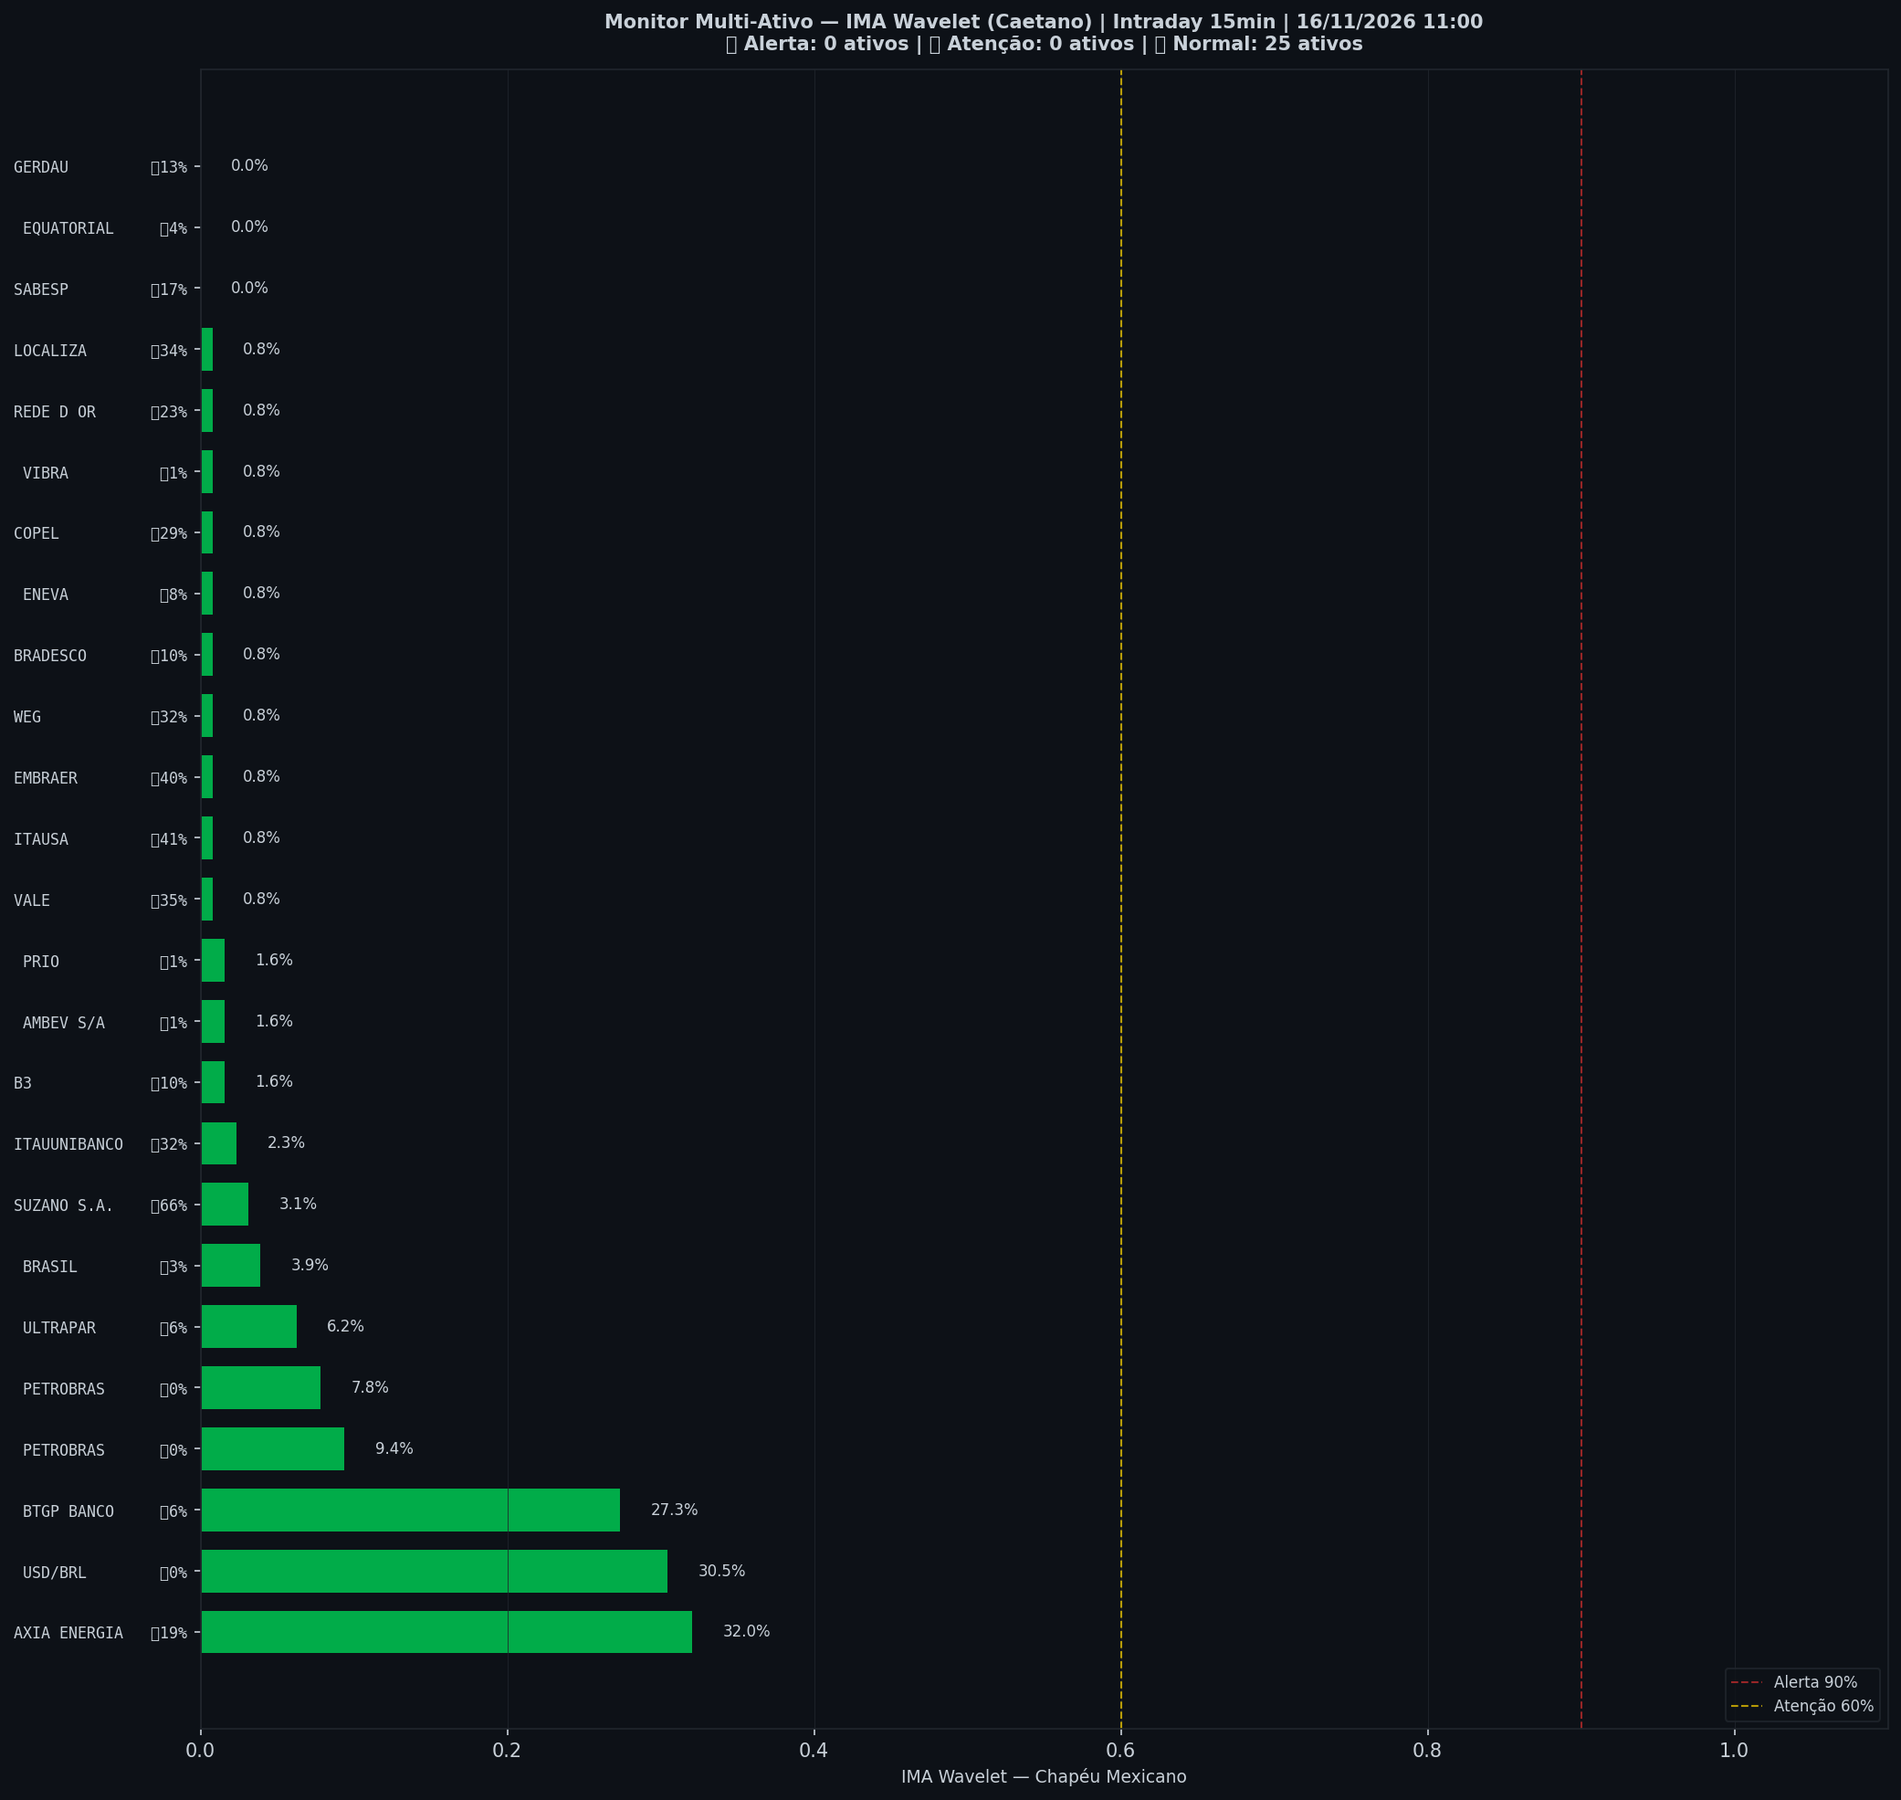
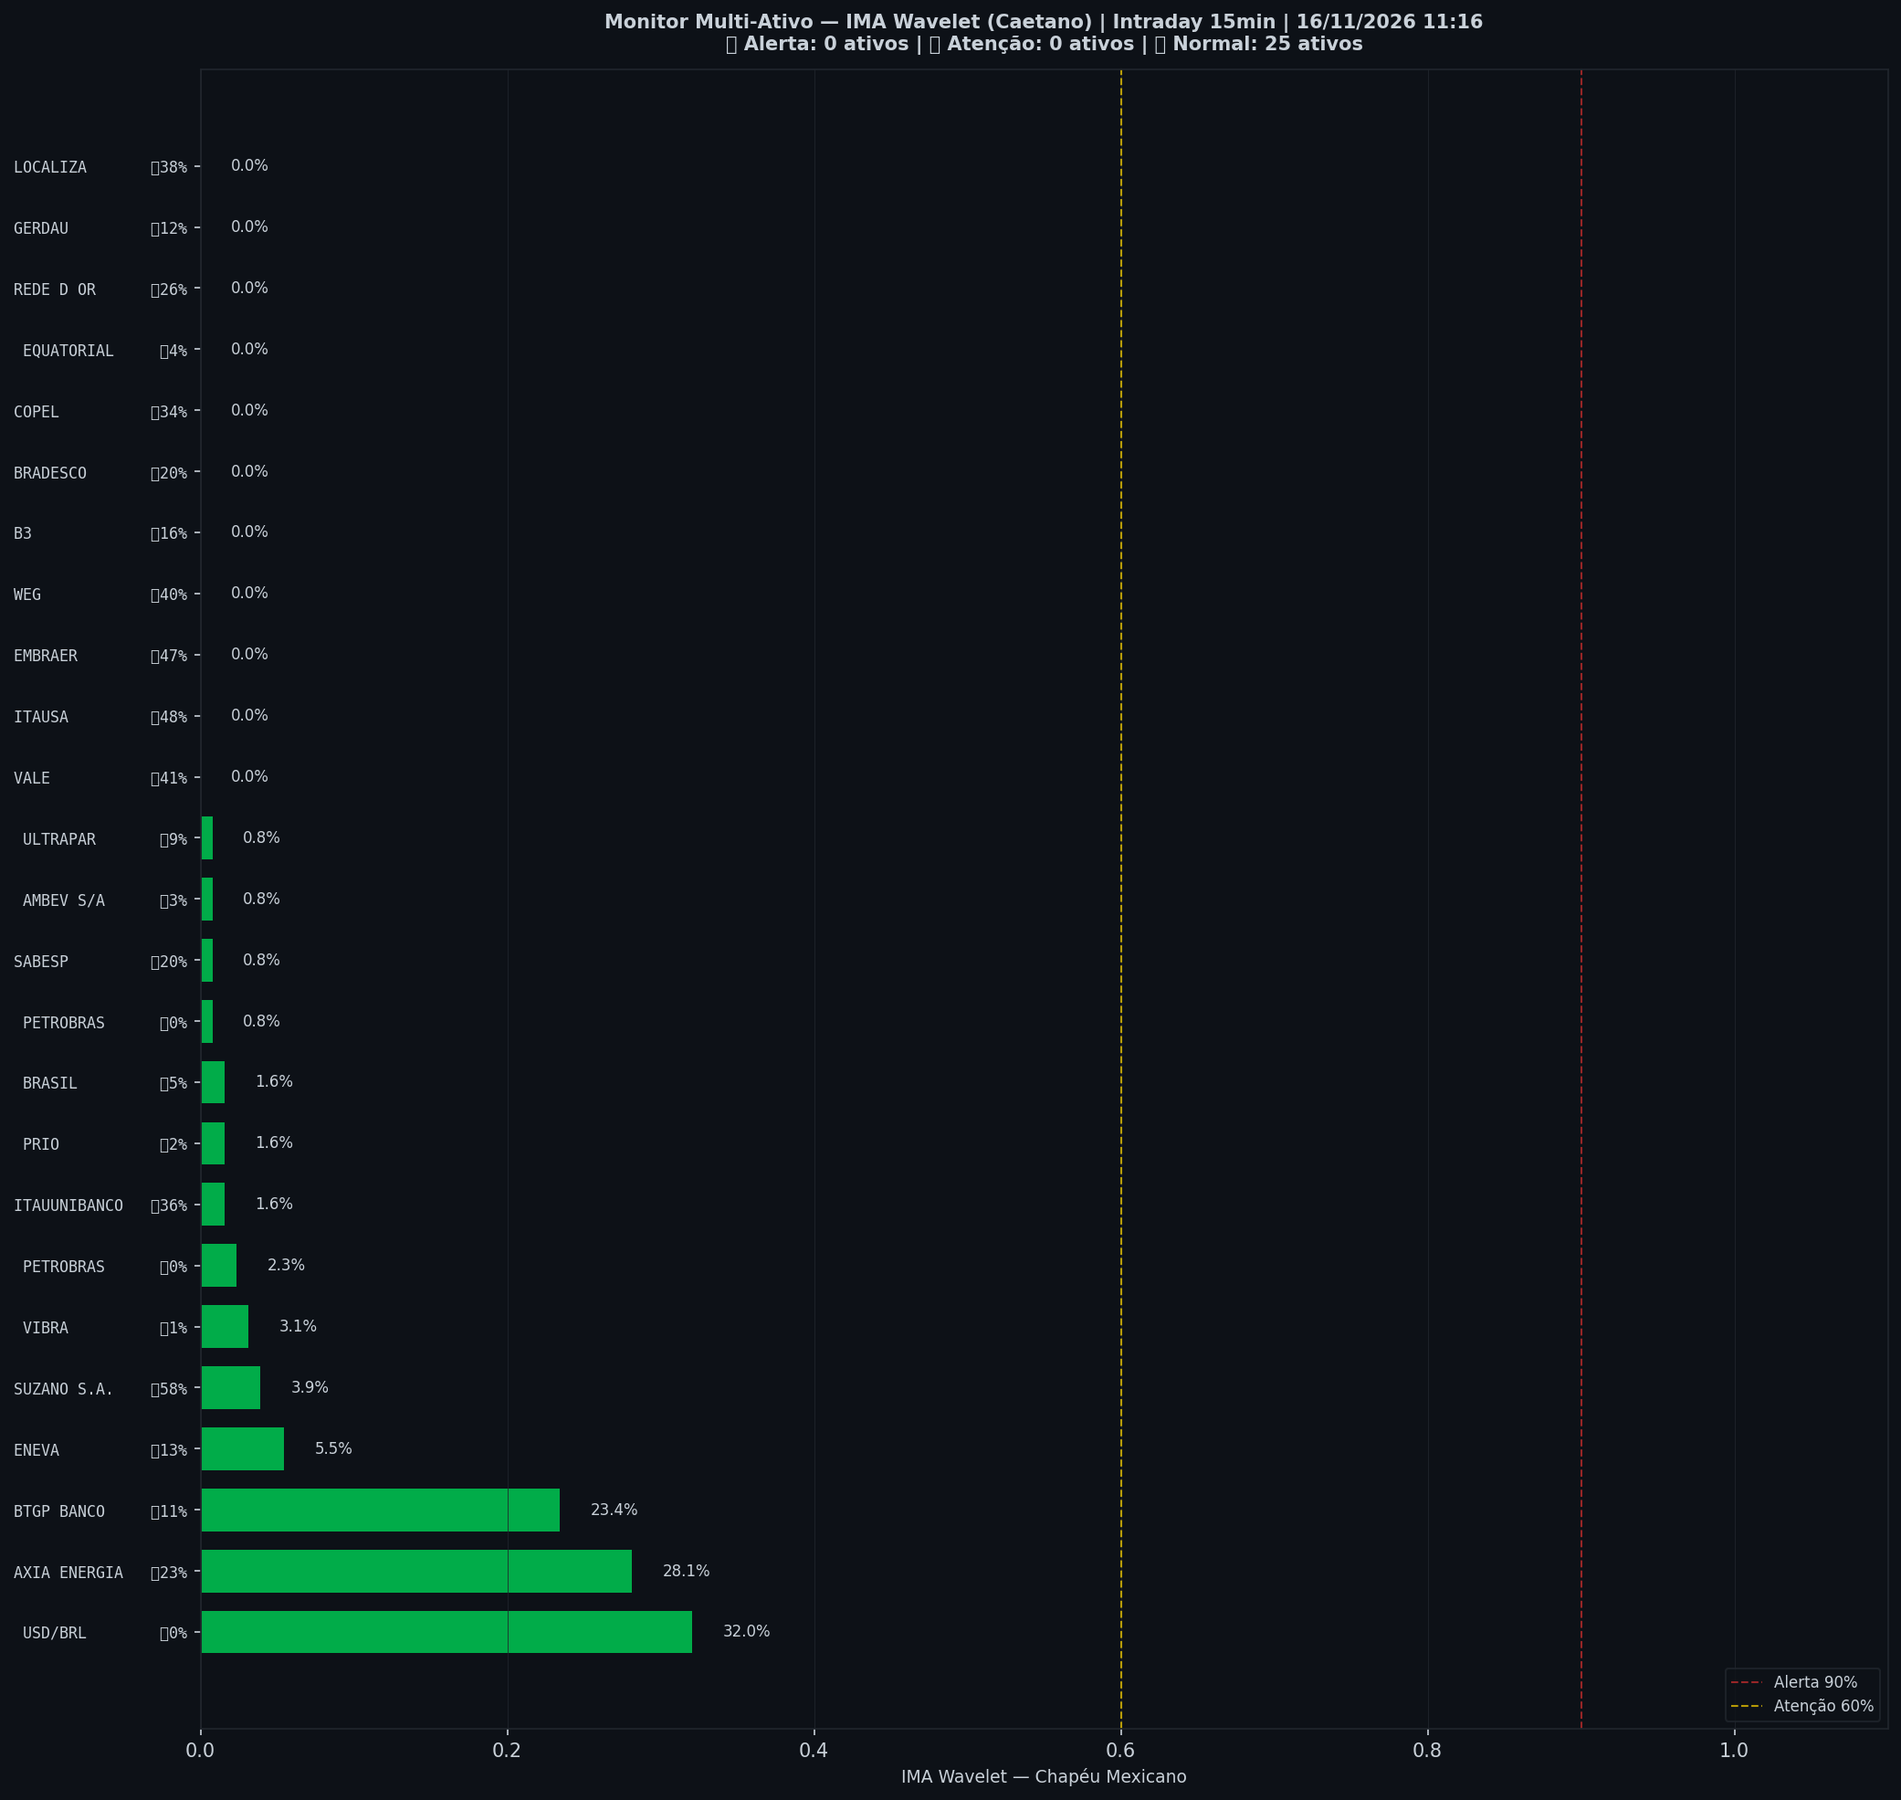
🤖 Auto: Sinal 16/11/2026 11:16

diff --git a/content/intraday/2026-11-16.md b/content/intraday/2026-11-16.md
@@ -1,11 +1,11 @@
 ---
-title: "🟢 Intraday 16/11/2026 10:45 BRT — VERDE"
+title: "🟢 Intraday 16/11/2026 11:00 BRT — VERDE"
 date: 2026-11-16
 tags: [intraday]
 ---
 
-> [!success] Onde o mercado está agora (16/11 10:45, candles de 15 min): **🟢 Calmo**
-> `Pânico ◀───────●─────────────▶ Euforia`
+> [!success] Onde o mercado está agora (16/11 11:00, candles de 15 min): **🟢 Calmo**
+> `Pânico ◀──────●──────────────▶ Euforia`
 >
 > O Ibovespa está dentro da sua faixa normal, sem excesso para cima nem para baixo.
 > No gráfico diário: 🌱 Fundo se desfazendo.
@@ -20,7 +20,7 @@ tags: [intraday]
 > | 📍 **Sinais** | hoje: nenhum sinal | [abrir](sinais-topo-fundo/) |
 > | 🧪 **Placar ao vivo** | 1 operação(ões), 0 com lucro, soma -0,8% | [abrir](operacoes/) |
 
-> [!success] IMA Intraday · 15 min (16/11 10:45): 🟢 **VERDE** — Risco 1% · ▼ -2 p.p. vs leitura anterior
+> [!success] IMA Intraday · 15 min (16/11 11:00): 🟢 **VERDE** — Risco 0% · ▼ -1 p.p. vs leitura anterior
 > `░░░░░░░░░░░░░░░░░░░░`
 > Preço na faixa normal em torno da tendência.
 
@@ -32,13 +32,13 @@ tags: [intraday]
 >
 > *Leitura educacional baseada em 26 anos de dados, não recomendação. [Como usar](../metodologia/crise#3-como-usar-na-prática).*
 
-| Indicador — IMA Intraday · 15 min (16/11 10:45) | Valor |
+| Indicador — IMA Intraday · 15 min (16/11 11:00) | Valor |
 |---|---|
-| 🔴 ζ Topo — preço esticado acima da tendência | **1%** |
-| 🔵 ζ Fundo — preço esticado abaixo da tendência | 31% |
+| 🔴 ζ Topo — preço esticado acima da tendência | **0%** |
+| 🔵 ζ Fundo — preço esticado abaixo da tendência | 36% |
 | 🫧 LPPL bolha — alta super-exponencial (risco de crash) | 0% |
 | 🫧 LPPL antibolha — queda super-exponencial (risco de repique) | 0% |
-| 📊 Ibovespa | 170.758 pts |
+| 📊 Ibovespa | 170.737 pts |
 
 ![Gráfico do sinal](../graficos/sinal_intraday.png)
 
@@ -46,6 +46,7 @@ tags: [intraday]
 
 | Data | Zona | Evento | Risco | ζ Topo | ζ Fundo | LPPL |
 |---|---|---|---|---|---|---|
+| 2026-11-16 11:00 | 🟢 VERDE |  | **0%** | 0% | 36% | 0% |
 | 2026-11-16 10:45 | 🟢 VERDE |  | **1%** | 1% | 31% | 0% |
 | 2026-11-16 10:30 | 🟢 VERDE |  | **2%** | 2% | 21% | 0% |
 | 2026-11-16 10:15 | 🟢 VERDE |  | **2%** | 2% | 12% | 0% |
@@ -75,50 +76,46 @@ tags: [intraday]
 | 2026-11-13 12:30 | 🟢 VERDE |  | **2%** | 2% | 2% | 0% |
 | 2026-11-13 12:15 | 🟢 VERDE |  | **2%** | 2% | 5% | 0% |
 | 2026-11-13 12:00 | 🟢 VERDE |  | **1%** | 1% | 11% | 0% |
-| 2026-11-13 11:45 | 🟢 VERDE |  | **0%** | 0% | 15% | 0% |
 
 <small>Destaques: 🟡 ≥ 60% · 🔴 ≥ 90% (Risco e ζ Topo) · 🔵 ≥ 60% · 🔪 ≥ 90% (ζ Fundo) · 🫧 ≥ 30% · 🫧🔴 ≥ 50% (LPPL)</small>
 
 ## Monitor Multi-Ativo
 
-**0% dos ativos em tensão** (0🔴 0🟡) · **1 com ζ Fundo alto** — quanto mais ativos disparam juntos, mais confiável o sinal.
-
-> [!warning] Em destaque no multi-ativo
-> 🔵 **SUZANO S.A.** ζ Fundo 66%
+**0% dos ativos em tensão** (0🔴 0🟡) · **0 com ζ Fundo alto** — quanto mais ativos disparam juntos, mais confiável o sinal.
 
 | Zona | Ativo | Setor | ζ Topo | ζ Fundo |
 |---|---|---|---|---|
-| 🟢 | **SUZANO S.A.** | Papel/Celulose | 3.1% | 🔵 **65.6%** |
-| 🟢 | **ITAUSA** | Financeiro | 0.8% | 41.4% |
-| 🟢 | **EMBRAER** | Outros | 0.8% | 39.8% |
-| 🟢 | **VALE** | Mineração | 0.8% | 35.2% |
-| 🟢 | **LOCALIZA** | Aluguel | 0.8% | 34.4% |
-| 🟢 | **ITAUUNIBANCO** | Financeiro | 2.3% | 32.0% |
-| 🟢 | **AXIA ENERGIA** | Energia | 32.0% | 18.8% |
-| 🟢 | **WEG** | Industrial | 0.8% | 32.0% |
-| 🟢 | **USD/BRL** | Câmbio | 30.5% | 0.0% |
-| 🟢 | **COPEL** | Energia | 0.8% | 28.9% |
-| 🟢 | **BTGP BANCO** | Financeiro | 27.3% | 6.2% |
-| 🟢 | **REDE D OR** | Saúde | 0.8% | 22.7% |
-| 🟢 | **SABESP** | Saneamento | 0.0% | 17.2% |
-| 🟢 | **GERDAU** | Siderurgia | 0.0% | 13.3% |
-| 🟢 | **B3** | Financeiro | 1.6% | 10.2% |
-| 🟢 | **BRADESCO** | Financeiro | 0.8% | 10.2% |
-| 🟢 | **PETROBRAS** | Petróleo | 9.4% | 0.0% |
-| 🟢 | **PETROBRAS** | Petróleo | 7.8% | 0.0% |
-| 🟢 | **ENEVA** | Energia | 0.8% | 7.8% |
-| 🟢 | **ULTRAPAR** | Outros | 6.2% | 6.2% |
-| 🟢 | **BRASIL** | Financeiro | 3.9% | 3.1% |
+| 🟢 | **SUZANO S.A.** | Papel/Celulose | 3.9% | 57.8% |
+| 🟢 | **ITAUSA** | Financeiro | 0.0% | 47.7% |
+| 🟢 | **EMBRAER** | Outros | 0.0% | 46.9% |
+| 🟢 | **VALE** | Mineração | 0.0% | 41.4% |
+| 🟢 | **WEG** | Industrial | 0.0% | 39.8% |
+| 🟢 | **LOCALIZA** | Aluguel | 0.0% | 37.5% |
+| 🟢 | **ITAUUNIBANCO** | Financeiro | 1.6% | 35.9% |
+| 🟢 | **COPEL** | Energia | 0.0% | 34.4% |
+| 🟢 | **USD/BRL** | Câmbio | 32.0% | 0.0% |
+| 🟢 | **AXIA ENERGIA** | Energia | 28.1% | 23.4% |
+| 🟢 | **REDE D OR** | Saúde | 0.0% | 25.8% |
+| 🟢 | **BTGP BANCO** | Financeiro | 23.4% | 10.9% |
+| 🟢 | **BRADESCO** | Financeiro | 0.0% | 20.3% |
+| 🟢 | **SABESP** | Saneamento | 0.8% | 19.5% |
+| 🟢 | **B3** | Financeiro | 0.0% | 15.6% |
+| 🟢 | **ENEVA** | Energia | 5.5% | 13.3% |
+| 🟢 | **GERDAU** | Siderurgia | 0.0% | 12.5% |
+| 🟢 | **ULTRAPAR** | Outros | 0.8% | 9.4% |
+| 🟢 | **BRASIL** | Financeiro | 1.6% | 4.7% |
 | 🟢 | **EQUATORIAL** | Energia | 0.0% | 3.9% |
-| 🟢 | **AMBEV S/A** | Consumo | 1.6% | 0.8% |
-| 🟢 | **PRIO** | Petróleo | 1.6% | 0.8% |
-| 🟢 | **VIBRA** | Energia | 0.8% | 0.8% |
+| 🟢 | **AMBEV S/A** | Consumo | 0.8% | 3.1% |
+| 🟢 | **VIBRA** | Energia | 3.1% | 0.8% |
+| 🟢 | **PETROBRAS** | Petróleo | 2.3% | 0.0% |
+| 🟢 | **PRIO** | Petróleo | 1.6% | 2.3% |
+| 🟢 | **PETROBRAS** | Petróleo | 0.8% | 0.0% |
 
 <small>Destaques: 🟡 ≥ 60% · 🔴 ≥ 90% (Risco e ζ Topo) · 🔵 ≥ 60% · 🔪 ≥ 90% (ζ Fundo) · 🫧 ≥ 30% · 🫧🔴 ≥ 50% (LPPL)</small>
 
 ![Monitor multi-ativo](../graficos/multi_intraday.png)
 
-*Página atualizada em 16/11/2026 11:00 BRT (leitura da barra de 2026-11-16 10:45 BRT).*
+*Página atualizada em 16/11/2026 11:16 BRT (leitura da barra de 2026-11-16 11:00 BRT).*
 
 > [!warning] O que este indicador não faz
 > Medido em 5 anos de Ibovespa, o ζ **não antecipa** topos nem fundos: a capacidade de separar o que sobe do que cai ficou em 0,49–0,52, e 0,50 é moeda jogada ao ar. Ele descreve o estado de agora; não é aviso do que vem. As zonas verde/amarelo/vermelho continuam na página como descrição desse estado — **não as use como sinal de entrada ou saída**.

diff --git a/content/index.md b/content/index.md
@@ -6,10 +6,10 @@ tags: [home]
 
 **As ondas do mercado, explicadas.** Leitura do Ibovespa com estatística de 26 anos, baseada no trabalho de pesquisadores e traders reconhecidos e adaptada por Jarbas Daniel da Costa.
 
-*Última atualização: 16/11/2026 11:00 BRT · Intraday 15min*
+*Última atualização: 16/11/2026 11:16 BRT · Intraday 15min*
 
-> [!success] Onde o mercado está agora (16/11 10:45, candles de 15 min): **🟢 Calmo**
-> `Pânico ◀───────●─────────────▶ Euforia`
+> [!success] Onde o mercado está agora (16/11 11:00, candles de 15 min): **🟢 Calmo**
+> `Pânico ◀──────●──────────────▶ Euforia`
 >
 > O Ibovespa está dentro da sua faixa normal, sem excesso para cima nem para baixo.
 > No gráfico diário: 🌱 Fundo se desfazendo.
@@ -20,7 +20,7 @@ tags: [home]
 
 | Módulo | Agora | |
 |---|---|---|
-| 🌊 **Sinal IMA** | 🟢 VERDE · 🟢 calmo · ζ Topo 1% | [relatório](intraday/2026-11-16) |
+| 🌊 **Sinal IMA** | 🟢 VERDE · 🟢 calmo · ζ Topo 0% | [relatório](intraday/2026-11-16) |
 | 📈 **Tendência MME9** | Diário 📌 compra acima de 172.715<br>Semanal — fora | [abrir](operacoes/tendencia) |
 | 🎯 **Entradas do método** | ⏳ aguardando: Diário · Nadaraya, Diário · Semáforo N3 após ζ Fundo | [abrir](operacoes/entradas) |
 | 📍 **Sinais** | hoje: nenhum sinal | [abrir](sinais-topo-fundo/) |
@@ -49,18 +49,18 @@ tags: [home]
 > *Leitura educacional baseada em 26 anos de dados, não recomendação. [Como usar](metodologia/crise#3-como-usar-na-prática).*
 
 > [!info]- 🌊 Detalhes do Sinal IMA (indicadores e últimos 7 pregões)
-> > [!success] IMA Intraday · 15 min (16/11 10:45): 🟢 **VERDE** — Risco 1% · ▼ -2 p.p. vs leitura anterior
+> > [!success] IMA Intraday · 15 min (16/11 11:00): 🟢 **VERDE** — Risco 0% · ▼ -1 p.p. vs leitura anterior
 > > `░░░░░░░░░░░░░░░░░░░░`
 > > Preço na faixa normal em torno da tendência.
 >
 >
-> | Indicador — IMA Intraday · 15 min (16/11 10:45) | Valor |
+> | Indicador — IMA Intraday · 15 min (16/11 11:00) | Valor |
 > |---|---|
-> | 🔴 ζ Topo — preço esticado acima da tendência | **1%** |
-> | 🔵 ζ Fundo — preço esticado abaixo da tendência | 31% |
+> | 🔴 ζ Topo — preço esticado acima da tendência | **0%** |
+> | 🔵 ζ Fundo — preço esticado abaixo da tendência | 36% |
 > | 🫧 LPPL bolha — alta super-exponencial (risco de crash) | 0% |
 > | 🫧 LPPL antibolha — queda super-exponencial (risco de repique) | 0% |
-> | 📊 Ibovespa | 170.758 pts |
+> | 📊 Ibovespa | 170.737 pts |
 >
 > **Multi-ativo:** 0% em tensão (0🔴 0🟡 de 25 ativos)
 >
@@ -68,7 +68,7 @@ tags: [home]
 >
 > | Data | Zona | Risco | ζ Topo | ζ Fundo | LPPL |
 > |---|---|---|---|---|---|
-> | [16/11/2026](intraday/2026-11-16) | 🟢 VERDE | **1%** | 1% | 31% | 0% |
+> | [16/11/2026](intraday/2026-11-16) | 🟢 VERDE | **0%** | 0% | 36% | 0% |
 > | [13/11/2026](intraday/2026-11-13) | 🟢 VERDE | **0%** | 0% | 0% | 0% |
 >
 > <small>Destaques: 🟡 ≥ 60% · 🔴 ≥ 90% (Risco e ζ Topo) · 🔵 ≥ 60% · 🔪 ≥ 90% (ζ Fundo) · 🫧 ≥ 30% · 🫧🔴 ≥ 50% (LPPL)</small>
@@ -79,7 +79,7 @@ tags: [home]
 
 Cada grupo responde uma pergunta diferente. [Por onde começar](por-onde-comecar) explica para que serve cada um, o que tem dentro e como usar.
 
-- **1 · Onde está o mercado** — a temperatura de hoje: 🌊 [IMA Diário](diario/) · [Intraday](intraday/) · 📊 [Amplitude](amplitude/) · 🧭 [Larry Williams](larry-williams/) · 📈 [Gráficos](tecnico/) · 📅 [Calendário](calendario)
+- **1 · Onde está o mercado** — a temperatura de hoje: 🌊 [IMA Diário](diario/) · [Intraday](intraday/) · 📊 [Amplitude](amplitude/) · 🧭 [Larry Williams](larry-williams/) · 📈 [Gráficos](tecnico/) · 📅 [Calendário](calendario) · 📉 [Juros](juros/)
 - **2 · Operar com tendência** — o que fazer com a leitura: 🎯 [Operações](operacoes/) · [Tendência MME9](operacoes/tendencia) · [Entradas](operacoes/entradas) · [Últimas operações](operacoes/ultimas-operacoes)
 - **3 · Sinais de topo e fundo** — extremos pontuais: 📍 [Sinais de hoje](sinais-topo-fundo/) · [Todos](sinais-topo-fundo/todos-os-sinais) · [Como ler](sinais-topo-fundo/tutorial)
 - **4 · Para onde vai o dinheiro** — fluxo e oferta: 🌎 [Capital estrangeiro](estrangeiros/) · 🗽 [Ações que foram para Nova York](adr/) · 💰 [Ofertas de ações](ofertas)

diff --git a/content/historico.md b/content/historico.md
@@ -5,7 +5,7 @@ tags: [historico]
 
 # 📜 Histórico de leituras (v5)
 
-**2.384 leituras** desde 2026-07-03. Na página ficam os últimos 3 dias leitura por leitura e o resumo de cada dia anterior; o registro inteiro está no arquivo para baixar.
+**2.385 leituras** desde 2026-07-03. Na página ficam os últimos 3 dias leitura por leitura e o resumo de cada dia anterior; o registro inteiro está no arquivo para baixar.
 
 [**Baixar o histórico completo**](historico-completo.csv) (104 KB · abre no Excel e no LibreOffice)
 
@@ -16,6 +16,7 @@ tags: [historico]
 
 | Data | Modo | Zona | Risco | IMA | LPPL |
 |---|---|---|---|---|---|
+| 2026-11-16 11:00 | intraday | 🟢 VERDE | 0% | 0% | 0% |
 | 2026-11-16 10:45 | intraday | 🟢 VERDE | 1% | 1% | 0% |
 | 2026-11-16 10:30 | intraday | 🟢 VERDE | 2% | 2% | 0% |
 | 2026-11-16 10:15 | intraday | 🟢 VERDE | 2% | 2% | 0% |

diff --git a/content/operacoes/ranking.md b/content/operacoes/ranking.md
@@ -5,7 +5,7 @@ tags: [operacoes]
 description: "As regras de compra do site ordenadas pelo resultado, com treino, teste e placar ao vivo"
 ---
 
-*Atualizado 16/11/2026 11:00 · histórico simulado com as regras congeladas em 23/10/2026 + placar ao vivo.*
+*Atualizado 16/11/2026 11:16 · histórico simulado com as regras congeladas em 23/10/2026 + placar ao vivo.*
 
 As regras de compra do site, **da que mais rendeu para a que menos rendeu**. O resultado é por operação, no índice à vista, sem custos e sem juros compostos (a soma é só a soma das operações). **Treino** = entradas de 2001 a 2013 e **teste** = 2014 em diante: uma regra só é confiável se ganhou nos dois. O único resultado sem nenhum ajuste ao histórico é o **placar ao vivo**.
 

diff --git a/content/linha-do-tempo/index.md b/content/linha-do-tempo/index.md
@@ -5,7 +5,7 @@ description: "Todo sinal, ordem, stop e aviso do Pêndulo de Mercado, do mais re
 tags: [eventos]
 ---
 
-*Atualizada 16/11/2026 11:00 BRT · a cada 15 min no pregão e às 19h.*
+*Atualizada 16/11/2026 11:16 BRT · a cada 15 min no pregão e às 19h.*
 
 Tudo o que o sistema fez ou detectou, **do mais recente para o mais antigo**: sinais de topo e fundo, ordens de compra e de venda armadas, compras, vendas, stops, avisos de 🚨 preço perto do nível e mudanças do Sinal IMA. Os **últimos 7 dias** ficam abertos; o resto, por **ano → mês → dia**.
 
